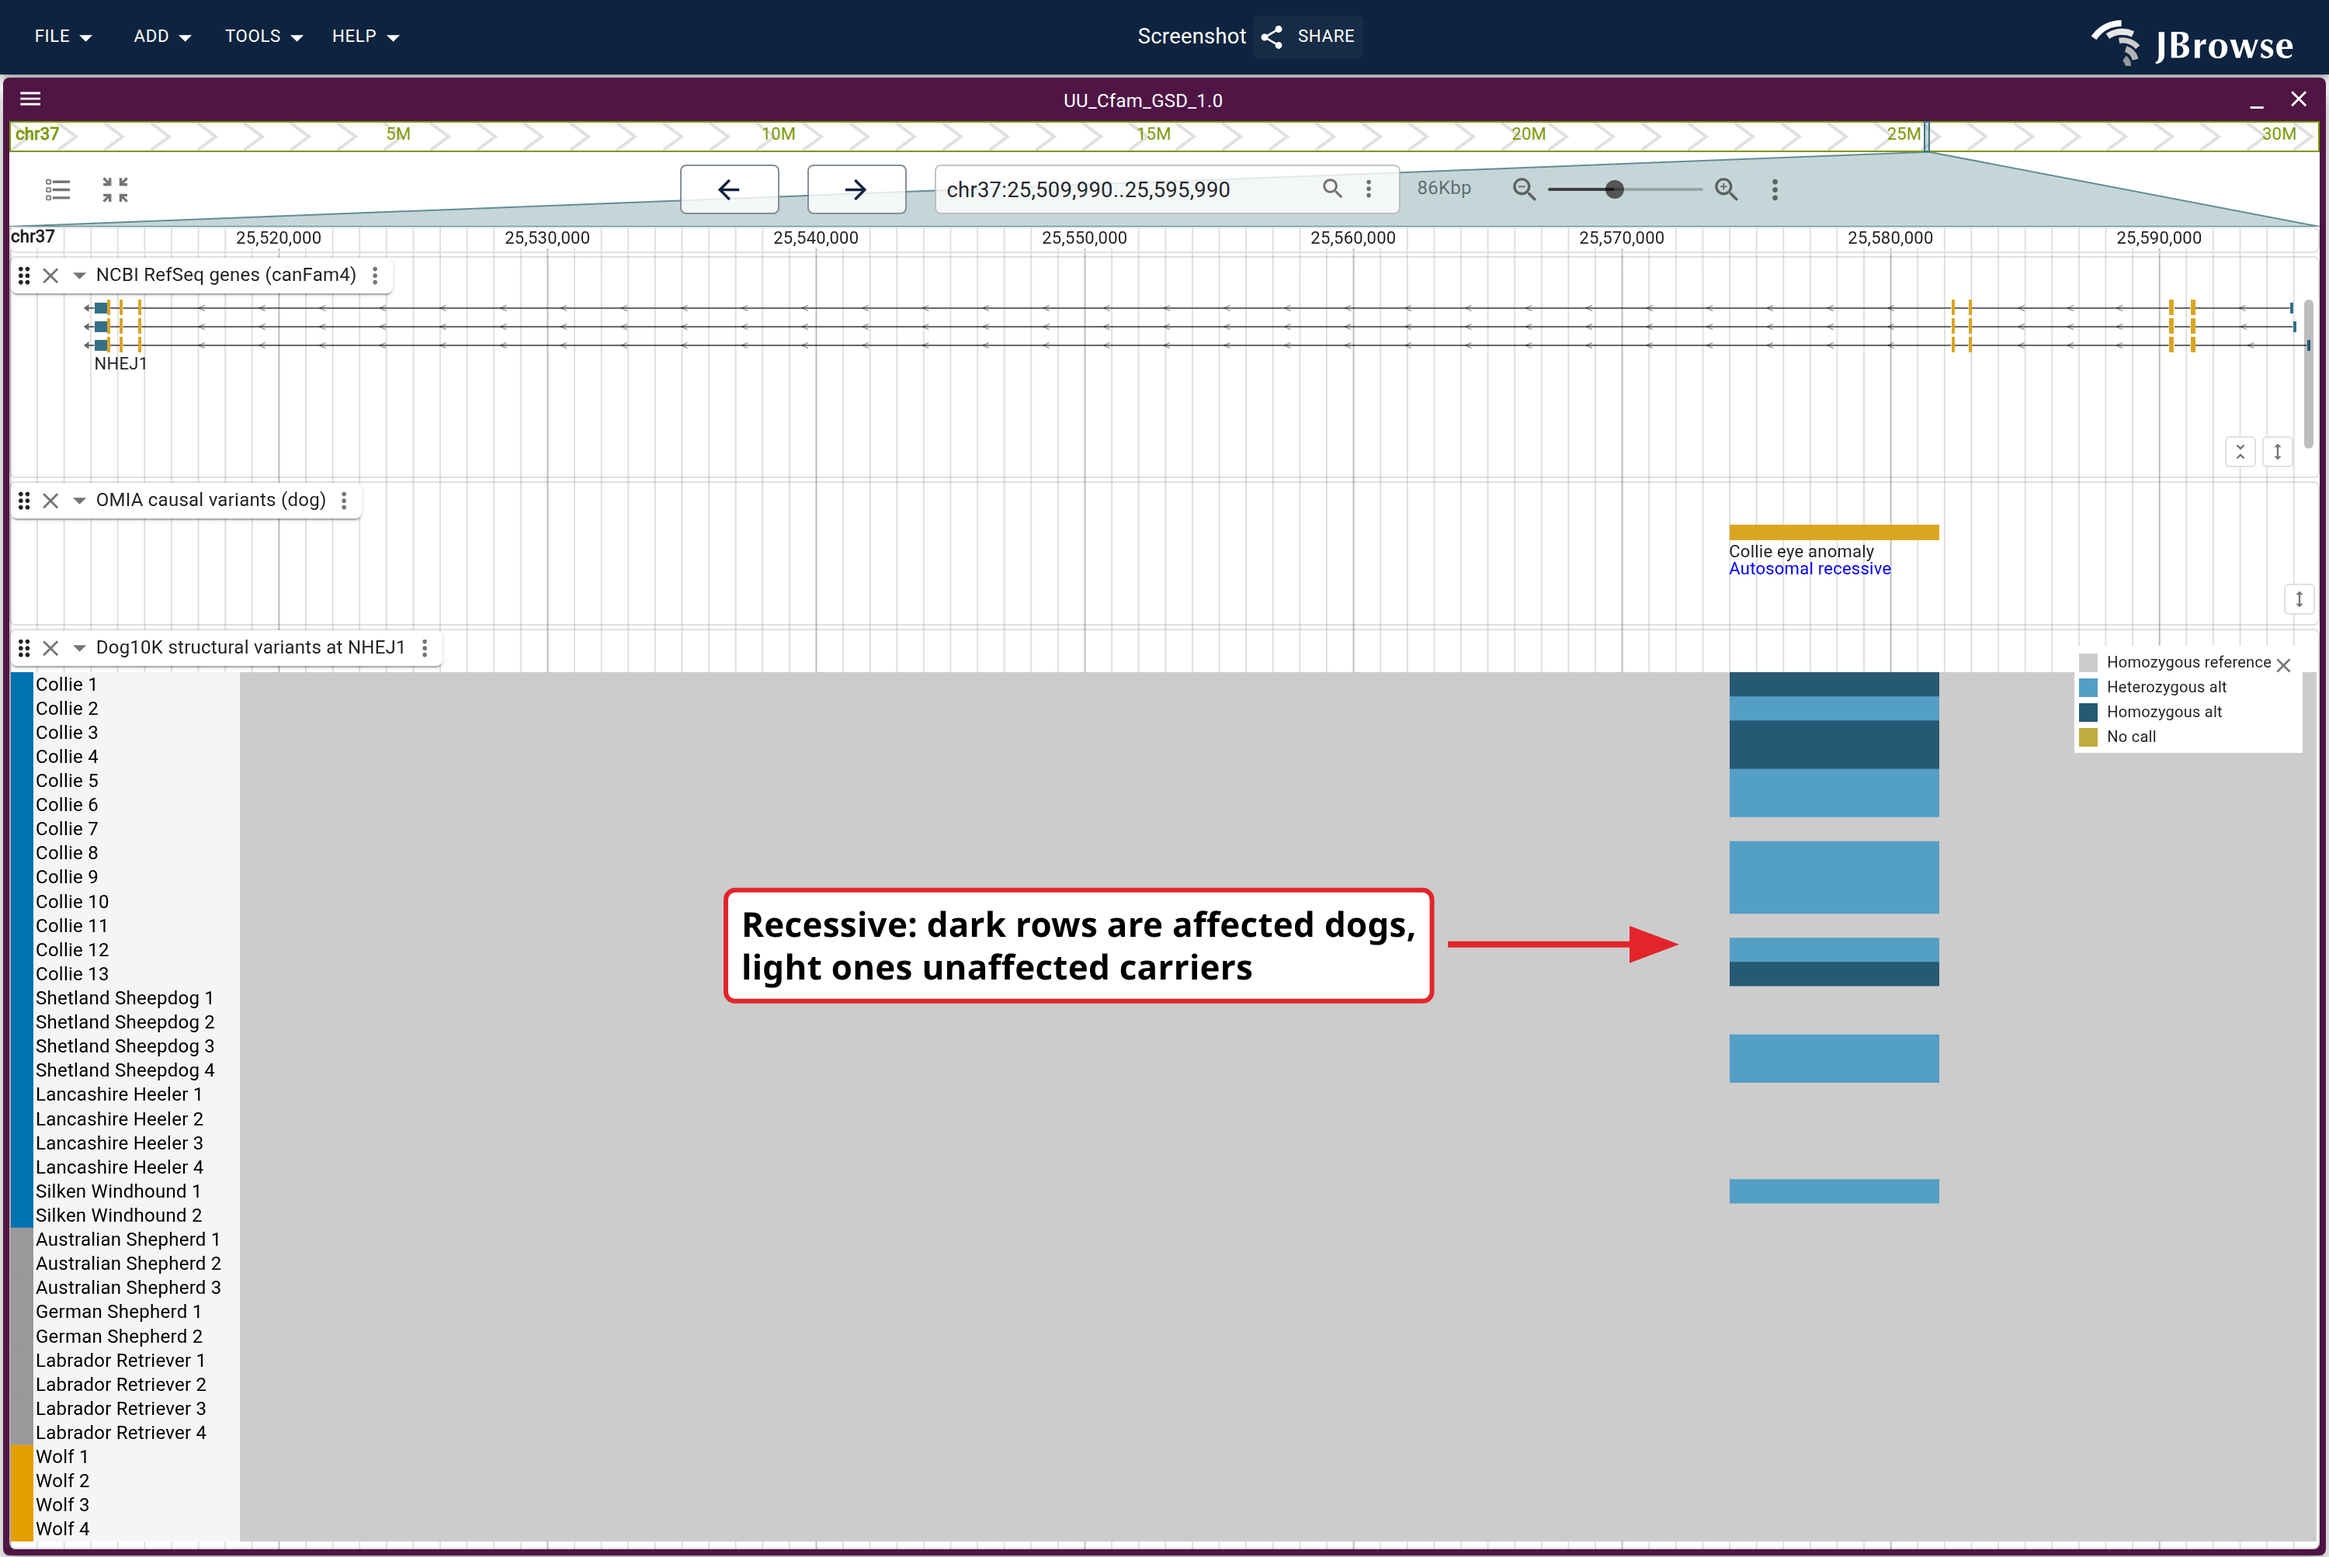
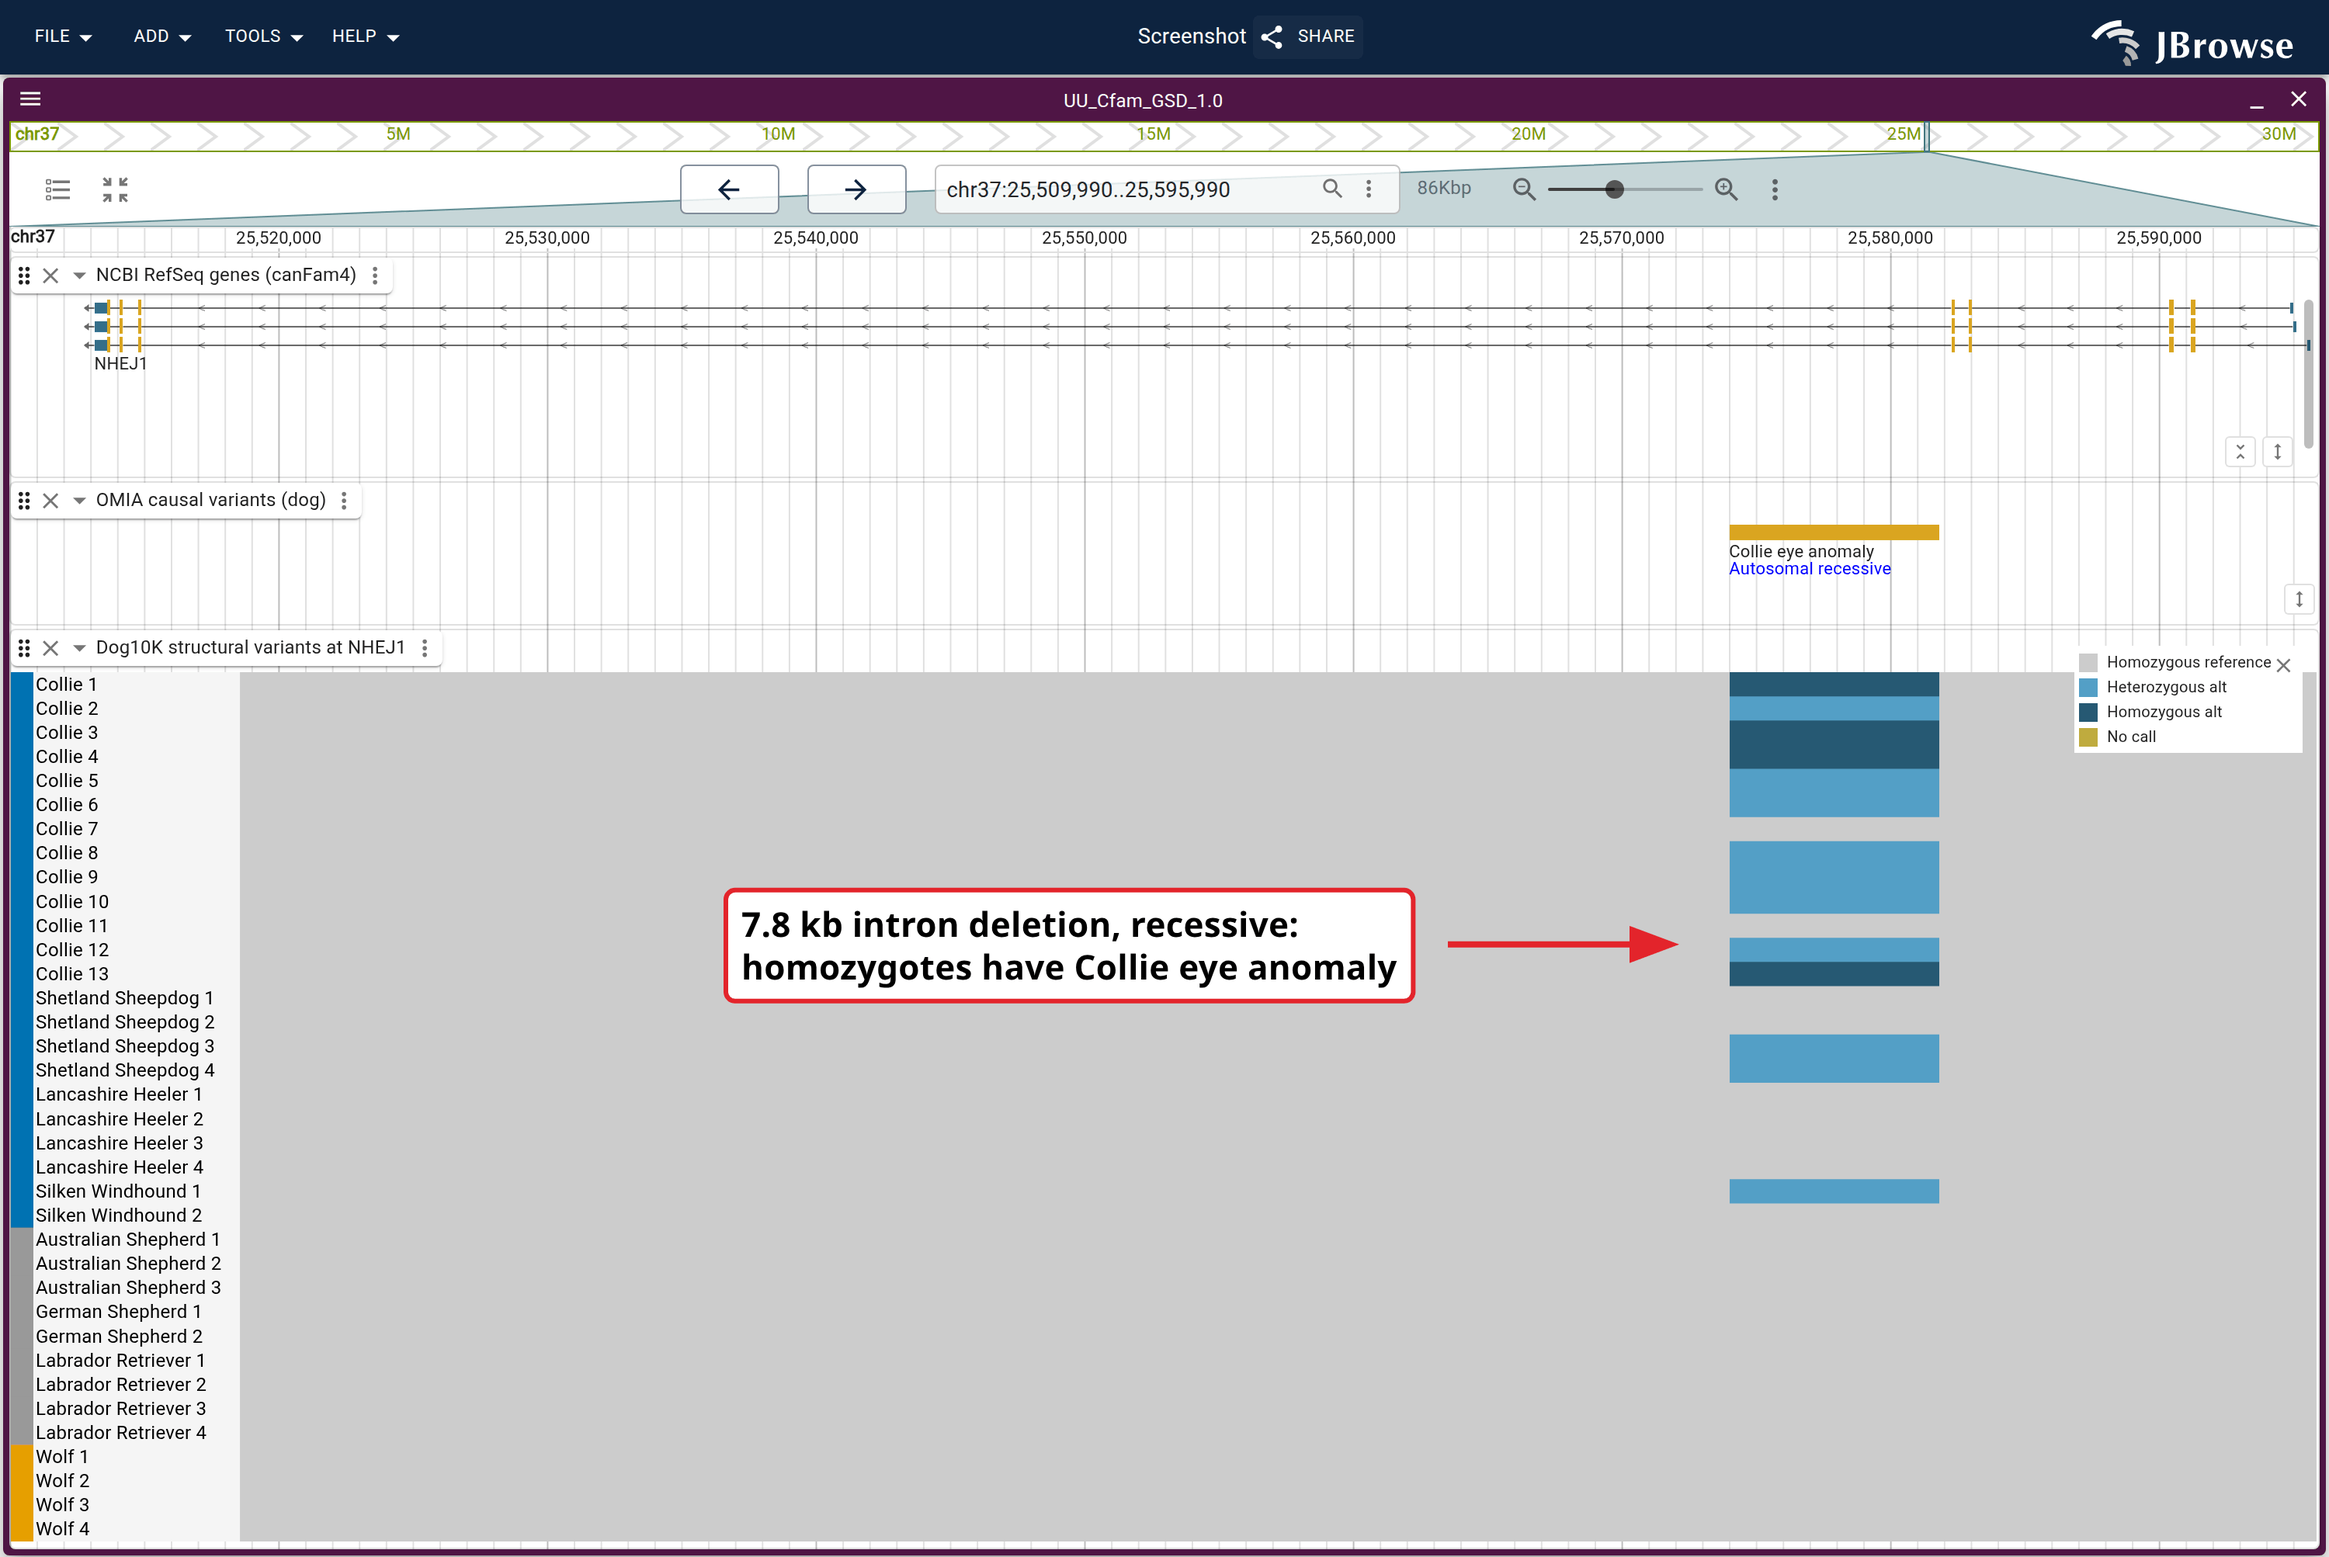
docs(dog10k): name Collie eye anomaly on the figure again
Per review: the callout is what a reader looks at, and Collie eye anomaly is the
thing they already know, so it should not defer to the OMIA lane for the name.
Back to "7.8 kb intron deletion, recessive: homozygotes have Collie eye
anomaly"; the lane below still carries the curated record and its inheritance.

The prose now cites Parker et al. (2007) where it first names the variant, not
only in the reference list at the foot.

Changed region(s): [[0.31, 0.5563, 0.62, 0.6491]]

diff --git a/website/scripts/specs/dog10k.ts b/website/scripts/specs/dog10k.ts
@@ -771,17 +771,19 @@ export const dog10kSpecs: ScreenshotSpec[] = [
     settleMs: 6000,
     // gene track, the OMIA lane, all 36 sample rows and the genotype legend
     viewportHeight: 1003,
-    // What the two blues MEAN, beside the column that carries them. The legend
-    // can say "homozygous alt" but not that homozygous is the affected state,
-    // and that is the one thing neither it nor the OMIA lane spells out — the
-    // lane names the disease and calls it recessive, so the pill no longer
-    // repeats either and says what recessive buys the reader instead. It sits
-    // left of the column, over lane that paints nothing (the filtered track has
-    // one record), so no cell is covered.
+    // What the deletion does, beside the column that carries it. The legend can
+    // say "homozygous alt" but not that homozygous is the affected state: CEA is
+    // recessive (Parker et al. 2007; OMIA 000218-9615), so the dark cells are
+    // affected animals and the light ones are unaffected carriers, which is the
+    // difference between the two blues a reader cannot otherwise infer. It names
+    // the disease rather than deferring to the OMIA lane for it (review): the
+    // pill is what a reader looks at, and Collie eye anomaly is the thing they
+    // will already know. The pill sits left of the column, over lane that paints
+    // nothing (the filtered track has one record), so no cell is covered.
     annotations: [
       {
         type: 'text',
-        text: 'Recessive: dark rows are affected dogs,\nlight ones unaffected carriers',
+        text: '7.8 kb intron deletion, recessive:\nhomozygotes have Collie eye anomaly',
         fontSize: 22,
         maxWidth: 460,
         anchor: {

diff --git a/website/docs/tutorials/dog10k_svs.md b/website/docs/tutorials/dog10k_svs.md
@@ -34,9 +34,10 @@ server; on JBrowse Web the same files go in through **Add track** or a
 
 Schall and Kidd genotyped long-read-discovered structural variants across the
 Dog10K collection and flagged those whose allele frequencies track breed clades.
-One is a 7.8 kb deletion in an intron of _NHEJ1_, the variant associated with
-Collie eye anomaly. If it is what the literature says, it should be common in
-Collies and their relatives and absent from unrelated breeds and from wolves.
+One is a 7.8 kb deletion in an intron of _NHEJ1_, the variant
+[Parker et al. (2007)](https://doi.org/10.1101/gr.6772807) tied to Collie eye
+anomaly. If it is what the literature says, it should be common in Collies and
+their relatives and absent from unrelated breeds and from wolves.
 The anomaly is recessive, so the darker cells in the figure below are affected
 animals and the lighter ones unaffected carriers.
 
